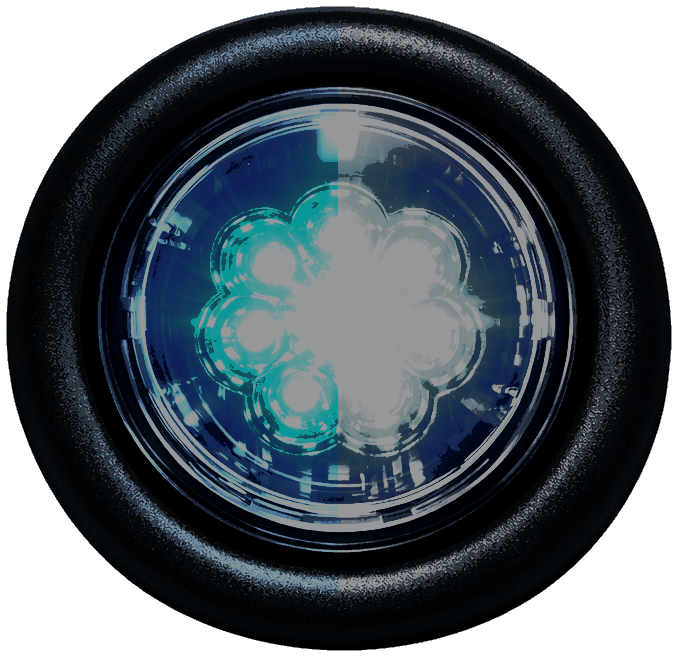
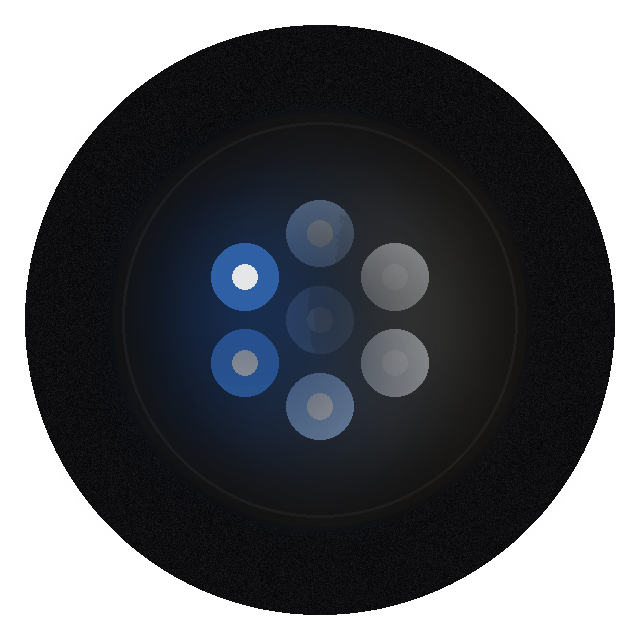
Make 1236/1245 FedSig sprites read as the actual products
Smoked 1" round, smoked DR1 B/W, smoked MPS123, MAX bar (black top +
amber ends), and MPSW9 B/W are dedicated fx files. Brackets use metal
hardware sprites instead of text chips. Cache-bust fx URLs.

diff --git a/visualizer/index.html b/visualizer/index.html
@@ -195,6 +195,7 @@ select:focus,input[type=text]:focus{box-shadow:0 0 0 2px color-mix(in srgb,var(-
 /* Durango-only visualizer. Catalog w ≈ % of vehicle width for FedSig sprites.
    Defaults aligned to compiled-app Durango mounts (+ fixtureNudge dy≈1). */
 var ASSET_V="rearcut2";
+var FX_V="smk3";
 var VIEWS=[
   {id:"front",label:"Front",imgW:"durango_front.png",imgB:"durango_front_black.png"},
   {id:"rear",label:"Rear",imgW:"durango_rear.png",imgB:"durango_rear_black.png"},
@@ -216,30 +217,30 @@ var CATALOG=[
   {sku:"MPS63",name:"MicroPulse 6-3 Grille",group:"Front / Perimeter",fx:"fx_mps63_rb.png",w:4.5},
   {sku:"MPS63U-RBW",name:"MicroPulse behind front grille",group:"Front / Perimeter",fx:"fx_mps63_rb.png",w:4.5},
   {sku:"MPSW9",name:"MicroPulse Wide 9 Mirror",group:"Front / Perimeter",fx:"fx_mps123_rb.png",w:6},
-  {sku:"MPSW9-BW",name:"MicroPulse Wide Angle B/W, side lighting / mirror",group:"Front / Perimeter",fx:"fx_mps123_rb.png",w:6},
-  {sku:"BRACKETS:FPIU20MIR",name:"Mirror mount for MPSW9 (Ford PI)",group:"Front / Perimeter",fx:null,w:5},
+  {sku:"MPSW9-BW",name:"MicroPulse Wide Angle B/W, side lighting / mirror",group:"Front / Perimeter",fx:"fx_mps_bw.png",w:6},
+  {sku:"BRACKETS:FPIU20MIR",name:"Mirror mount for MPSW9 (Ford PI)",group:"Front / Perimeter",fx:"fx_bracket_l.png",w:5},
   {sku:"416309-RBW-SMK",name:"1 in round B/W smoked (front bumper ×4, rear bumper ×6)",group:"Front / Perimeter",fx:"fx_round_smk.png",w:2.6},
   {sku:"MPS123",name:"MicroPulse 12-3",group:"Rear Hatch",fx:"fx_mps123_rb.png",w:7},
   {sku:"MPS123U-RBW",name:"MicroPulse 1200-series rear hatch face / plate",group:"Rear Hatch",fx:"fx_mps123_rb.png",w:7},
   {sku:"LIGHTS:MPS123U-RBW-SMK",name:"MicroPulse 1200 plate side smoked",group:"Rear Hatch",fx:"fx_mps123_smk.png",w:7},
-  {sku:"BRACKETS:MPSM6-LPH1",name:"License plate mount for 1200-series (MPS123U)",group:"Rear Hatch",fx:null,w:5},
-  {sku:"mpsm6-sb2",name:"MicroPulse swivel bracket (1200-series)",group:"Rear Hatch",fx:null,w:5},
-  {sku:"BRACKETS:MPSM6-LB",name:"MicroPulse L bracket",group:"Rear Hatch",fx:null,w:5},
+  {sku:"BRACKETS:MPSM6-LPH1",name:"License plate mount for 1200-series (MPS123U)",group:"Rear Hatch",fx:"fx_bracket_plate.png",w:6},
+  {sku:"mpsm6-sb2",name:"MicroPulse swivel bracket (1200-series)",group:"Rear Hatch",fx:"fx_bracket_l.png",w:5},
+  {sku:"BRACKETS:MPSM6-LB",name:"MicroPulse L bracket",group:"Rear Hatch",fx:"fx_bracket_l.png",w:5},
   {sku:"SIFMJH",name:"SpectraLux ILS (Rear Hatch)",group:"Rear Hatch",fx:"fx_ils_rb.png",w:20},
   {sku:"LIGHTS:SIFMJH-TAH21-P3",name:"Rear hatch ILS, FS Join, brake/reverse",group:"Rear Hatch",fx:"fx_ils_rb.png",w:20},
   {sku:"STICK-RB",name:"Warning Stick R/B",group:"Rear Hatch",fx:"fx_stick_rb.png",w:22},
   {sku:"CNSMJ8R-P3C",name:"SignalMaster 8-head rear stick, Red/Amber + Blue/Amber",group:"Rear Hatch",fx:"fx_stick_rb.png",w:22},
-  {sku:"CNSM-RBK1",name:"SignalMaster 8-head mount bracket",group:"Rear Hatch",fx:null,w:5},
+  {sku:"CNSM-RBK1",name:"SignalMaster 8-head mount bracket",group:"Rear Hatch",fx:"fx_bracket_plate.png",w:6},
   {sku:"XSM2",name:"SpectraLux XSM2 Module",group:"Rear Hatch",fx:"fx_mps_small_rb.png",w:4},
   {sku:"XSM2-BRW-US",name:"SpectraLux XSM2 rear quarter glass",group:"Rear Hatch",fx:"fx_mps_small_rb.png",w:4},
   {sku:"416300",name:"Perimeter Lighthead",group:"Rear Hatch",fx:"fx_round_rb.png",w:3},
   {sku:"ES100C",name:"100W speaker",group:"Siren / Control",fx:"fx_speaker.png",w:6},
-  {sku:"ESBL-FPIU20",name:"EC100 speaker bracket Ford PI",group:"Siren / Control",fx:null,w:5},
+  {sku:"ESBL-FPIU20",name:"EC100 speaker bracket Ford PI",group:"Siren / Control",fx:"fx_bracket_l.png",w:5},
   {sku:"ESBL2-TAH21ND",name:"Dual ESB speaker/light mount Tahoe 21+",group:"Siren / Control",fx:"fx_speaker.png",w:7},
   {sku:"RBKIT1",name:"Rumbler",group:"Siren / Control",fx:"fx_rumbler.png",w:5},
-  {sku:"BRACKETS:RBS-FPIU20",name:"Rumbler bracket Ford PI",group:"Siren / Control",fx:null,w:5},
+  {sku:"BRACKETS:RBS-FPIU20",name:"Rumbler bracket Ford PI",group:"Siren / Control",fx:"fx_bracket_l.png",w:5},
   {sku:"RBKIT2-COMPACT",name:"Compact rumbler",group:"Siren / Control",fx:"fx_rumbler.png",w:4.5},
-  {sku:"RBC2-TAH21ND",name:"2 compact rumbler brackets Tahoe 21+",group:"Siren / Control",fx:null,w:5}
+  {sku:"RBC2-TAH21ND",name:"2 compact rumbler brackets Tahoe 21+",group:"Siren / Control",fx:"fx_bracket_l.png",w:5}
 ];
 /* Simple per-SKU defaults as fraction of the vehicle stage (shrink-wrapped). */
 var DEFAULTS={
@@ -400,9 +401,12 @@ function defaultFor(sku){
 function fxFor(part){
   if(!part.fx) return null;
   var f=part.fx;
-  if(scheme==="bw") f=f.replace("_rb.","_bw.").replace("_r.","_bw.").replace("_b.","_bw.");
-  else if(scheme==="rw") f=f.replace("_rb.","_r.").replace("_bw.","_r.").replace("_b.","_r.");
-  return "fx/"+f;
+  /* Only scheme-swap the _rb family. Dedicated smoked/MAX/BW files keep their colors. */
+  if(/_rb\./.test(f)){
+    if(scheme==="bw") f=f.replace("_rb.","_bw.").replace("_r.","_bw.").replace("_b.","_bw.");
+    else if(scheme==="rw") f=f.replace("_rb.","_r.").replace("_bw.","_r.").replace("_b.","_r.");
+  }
+  return "fx/"+f+"?v="+FX_V;
 }
 function renderParts(){
   var q=(document.getElementById("search").value||"").toLowerCase();
